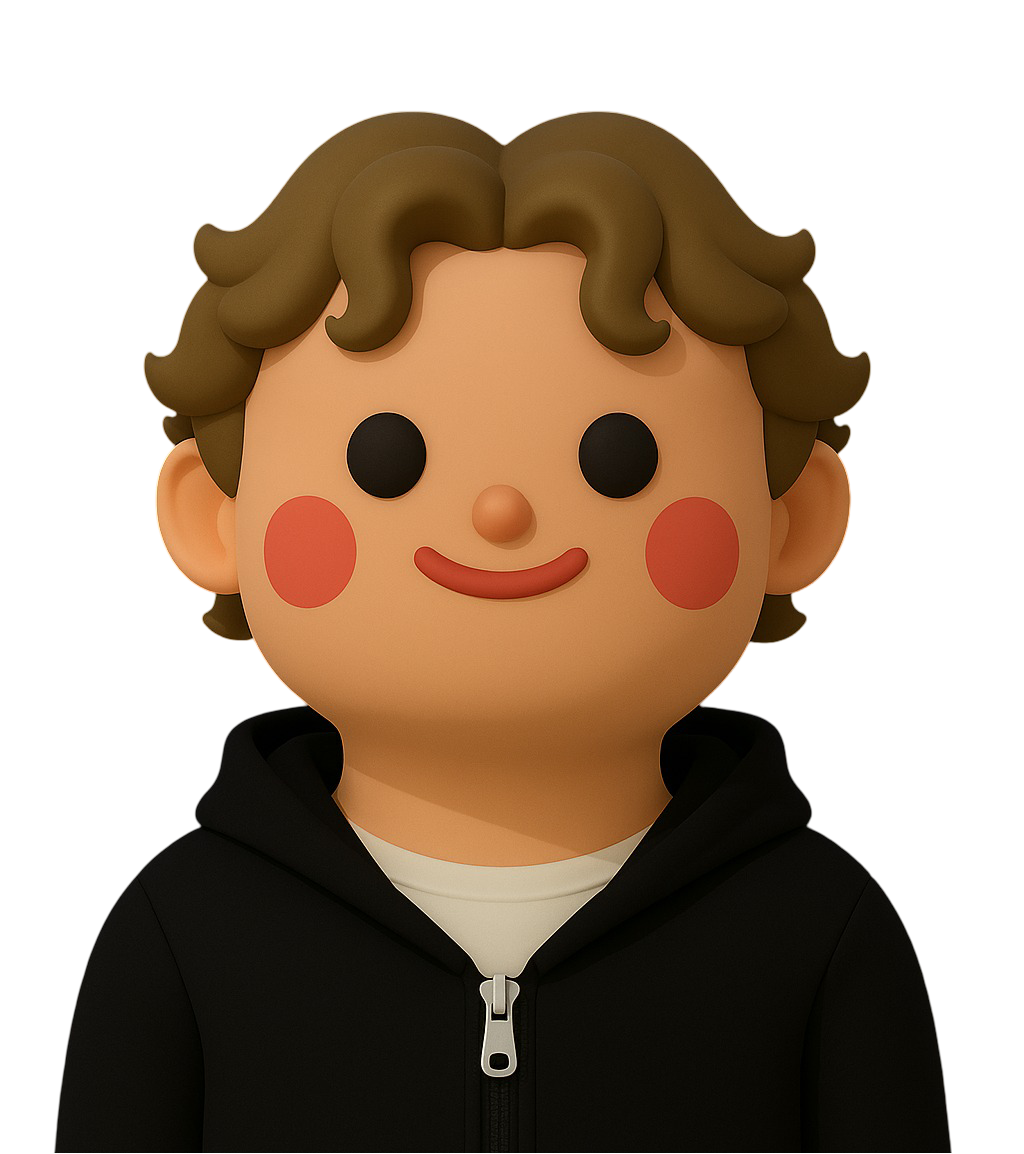
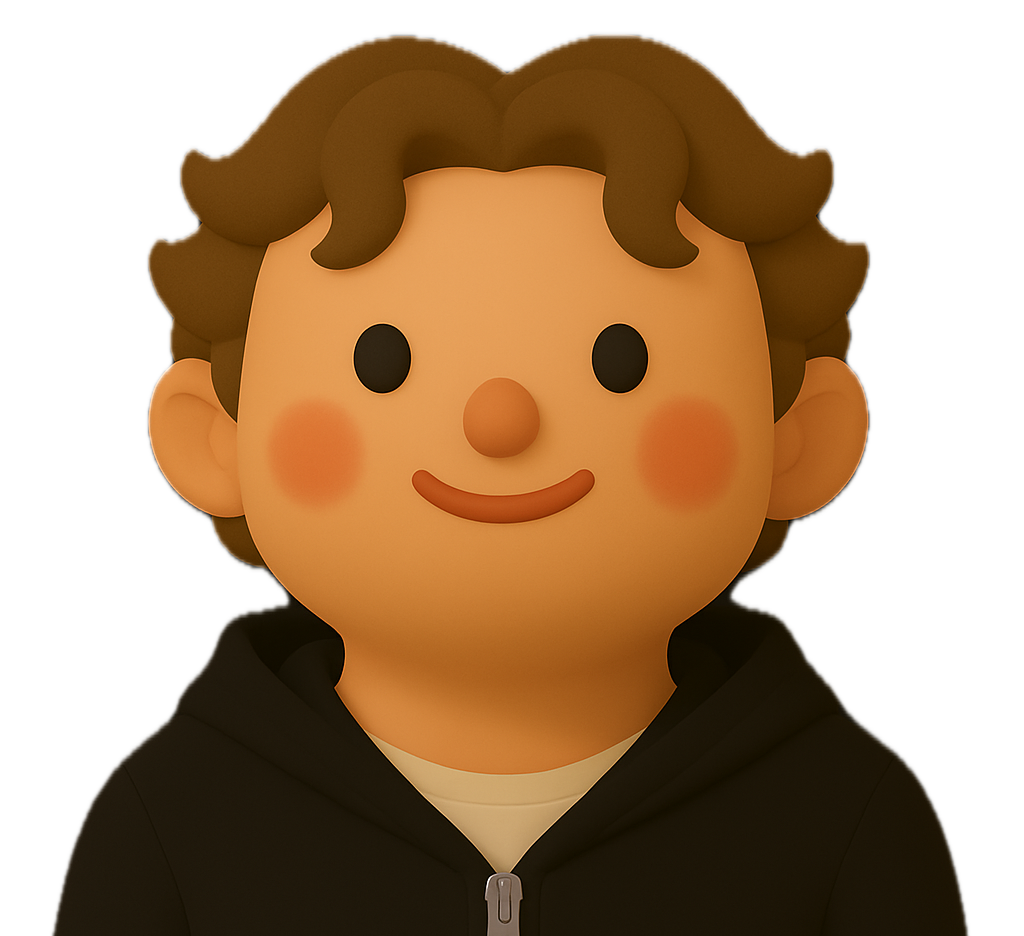
add react-focus-lock; update Header component with delayed menu visibility; enhance styles for mobile resume button; replace old image assets

Changed region(s): [[0.0312, 0.031, 0.9688, 1.0], [0.7812, 0.6816, 0.9062, 0.8675], [0.7188, 0.7126, 0.75, 0.7436]]

diff --git a/src/components/Header/Header.tsx b/src/components/Header/Header.tsx
@@ -7,26 +7,63 @@ import Logo from '../../assets/images/noah_clay_transparent.png';
 import Resume from '../../assets/documents/NoahHarborthResume.pdf';
 import { ReactComponent as DocumentDownloadIcon } from '../../assets/images/icons/document-download.svg';
 import { ReactComponent as MenuIcon } from '../../assets/images/icons/squiggly-arrow-up.svg';
-import { useState } from 'react';
+import { useEffect, useState } from 'react';
+import ReactFocusLock from 'react-focus-lock';
 
-function HeaderNav({ isMobile }: { isMobile?: boolean }) {
+function HeaderNav({
+	isMobile,
+	delayedIsMenuOpen,
+}: {
+	isMobile?: boolean;
+	delayedIsMenuOpen?: boolean;
+}) {
 	return isMobile ? (
-		<nav className={`header__nav--mobile fade-in`}>
+		<nav className={`header__nav--mobile`}>
 			<ul className='header__list--mobile'>
 				<li className='header__item--mobile'>
-					<Link isNavLink to='/'>
+					<span
+						style={{
+							opacity: 0,
+							display: delayedIsMenuOpen ? 'none' : 'block',
+						}}
+					>
 						home
-					</Link>
+					</span>
+					{delayedIsMenuOpen && (
+						<Link isNavLink to='/'>
+							<span className='fade-in delay'>home</span>
+						</Link>
+					)}
 				</li>
 				<li className='header__item--mobile'>
-					<Link isNavLink to='/about'>
+					<span
+						style={{
+							opacity: 0,
+							display: delayedIsMenuOpen ? 'none' : 'block',
+						}}
+					>
 						about
-					</Link>
+					</span>
+					{delayedIsMenuOpen && (
+						<Link isNavLink to='/about'>
+							<span className='fade-in delay-03'>about</span>
+						</Link>
+					)}
 				</li>
 				<li className='header__item--mobile'>
-					<Link isNavLink to='/contact'>
+					<span
+						style={{
+							opacity: 0,
+							display: delayedIsMenuOpen ? 'none' : 'block',
+						}}
+					>
 						contact
-					</Link>
+					</span>
+					{delayedIsMenuOpen && (
+						<Link isNavLink to='/contact'>
+							<span className='fade-in delay-05'>contact</span>
+						</Link>
+					)}
 				</li>
 			</ul>
 		</nav>
@@ -53,7 +90,13 @@ function HeaderNav({ isMobile }: { isMobile?: boolean }) {
 	);
 }
 
-function HeaderResume({ isMobile }: { isMobile?: boolean }) {
+function HeaderResume({
+	isMobile,
+	delayedIsMenuOpen,
+}: {
+	isMobile?: boolean;
+	delayedIsMenuOpen?: boolean;
+}) {
 	return isMobile ? (
 		<div className={`header__resume--mobile fade-in`}>
 			<Button
@@ -62,8 +105,17 @@ function HeaderResume({ isMobile }: { isMobile?: boolean }) {
 				href={Resume}
 				className='header__resume-btn--mobile'
 			>
-				<DocumentDownloadIcon />
-				<span>download resume</span>
+				<span
+					style={{ opacity: 0, display: delayedIsMenuOpen ? 'none' : 'block' }}
+				>
+					download resume
+				</span>
+				{delayedIsMenuOpen && (
+					<span className='fade-slide-in--bottom delay-07'>
+						<DocumentDownloadIcon />
+						<span>download resume</span>
+					</span>
+				)}
 			</Button>
 		</div>
 	) : (
@@ -86,46 +138,82 @@ const CloseIcon = () => <span>✕</span>;
 
 function ExpandingMenuButton() {
 	const [isMenuOpen, setIsMenuOpen] = useState(false);
+	const [delayedIsMenuOpen, setdelayedIsMenuOpen] = useState(false);
 
-  // TODO: also close Menu as soon as you either click outside or you click one of the nav items
+	useEffect(() => {
+		const timerId = setTimeout(
+			() => {
+				setdelayedIsMenuOpen(isMenuOpen);
+			},
+			isMenuOpen ? 500 : 100
+		);
+
+		return () => {
+			clearTimeout(timerId);
+		};
+	}, [isMenuOpen]);
+
+	useEffect(() => {
+		const handleClickOutsideToggleMenu = (event: MouseEvent) => {
+			const target = event.target as HTMLElement;
+			const menuButton = document.querySelector(
+				'.header__menu-icon-button'
+			) as HTMLElement;
+			const menuButtonIcon = document.querySelector(
+				'.header__menu-icon-button-icon'
+			) as HTMLElement;
+
+			if (target === menuButtonIcon || target === menuButton) {
+				return;
+			}
+
+			setIsMenuOpen(false);
+		};
+
+		document.addEventListener('click', handleClickOutsideToggleMenu);
+		return () => {
+			document.removeEventListener('click', handleClickOutsideToggleMenu);
+		};
+	}, []);
+
 	const handleToggleMenu = () => {
 		setIsMenuOpen(!isMenuOpen);
 	};
 
-
-  // TODO: animate the menu nav items animating in/out and then after delay the menu closes
 	return (
-		<div
-			className={`header__expanding-menu-shell fade-in delay-15 ${
-				isMenuOpen
-					? 'header__expanding-menu-shell--open'
-					: 'header__expanding-menu-shell--closed'
-			}`}
-		>
+		<ReactFocusLock disabled={!isMenuOpen}>
 			<div
-				className={`header__menu-actual-content ${
-					isMenuOpen ? 'header__menu-actual-content--open' : ''
+				className={`header__expanding-menu-shell fade-in delay-15 ${
+					isMenuOpen
+						? 'header__expanding-menu-shell--open'
+						: 'header__expanding-menu-shell--closed'
 				}`}
-				id='header__mobile-menu-content-area'
 			>
-				<HeaderNav isMobile={true} />
-				<HeaderResume isMobile={true} />
-			</div>
+				<div
+					className={`header__menu-actual-content ${
+						isMenuOpen ? 'header__menu-actual-content--open' : ''
+					}`}
+					id='header__mobile-menu-content-area'
+				>
+					<HeaderNav isMobile={true} delayedIsMenuOpen={delayedIsMenuOpen} />
+					<HeaderResume isMobile={true} delayedIsMenuOpen={delayedIsMenuOpen} />
+				</div>
 
-			{/* TODO: Make icon button as its own button component version */}
-			<Button
-				type='round'
-				className='header__menu-icon-button'
-				onClick={handleToggleMenu}
-				aria-expanded={isMenuOpen}
-				aria-controls='header__mobile-menu-content-area'
-				aria-label={isMenuOpen ? 'Close menu' : 'Open menu'}
-			>
-				<span className='icon-wrapper'>
-					{isMenuOpen ? <CloseIcon /> : <MenuIcon />}
-				</span>
-			</Button>
-		</div>
+				{/* TODO: Make icon button as its own button component version */}
+				<Button
+					type='round'
+					className='header__menu-icon-button'
+					onClick={handleToggleMenu}
+					aria-expanded={isMenuOpen}
+					aria-controls='header__mobile-menu-content-area'
+					aria-label={isMenuOpen ? 'Close menu' : 'Open menu'}
+				>
+					<span className='header__menu-icon-button-icon'>
+						{isMenuOpen ? <CloseIcon /> : <MenuIcon />}
+					</span>
+				</Button>
+			</div>
+		</ReactFocusLock>
 	);
 }
 

diff --git a/src/components/Header/Header.scss b/src/components/Header/Header.scss
@@ -124,6 +124,14 @@ $menu-timing-function: cubic-bezier(0.77, 0, 0.175, 1);
 			}
 		}
 
+		&__resume-btn--mobile {
+			span {
+				display: flex;
+				align-items: center;
+				column-gap: variables.$spacing_2;
+			}
+		}
+
 		&__menu-icon-button {
 			position: absolute;
 			bottom: 0;
@@ -143,6 +151,10 @@ $menu-timing-function: cubic-bezier(0.77, 0, 0.175, 1);
 			background: none;
 			box-shadow: none;
 			border: none;
+		}
+
+		&__menu-icon-button-icon {
+			pointer-events: none;
 		}
 	}
 }
